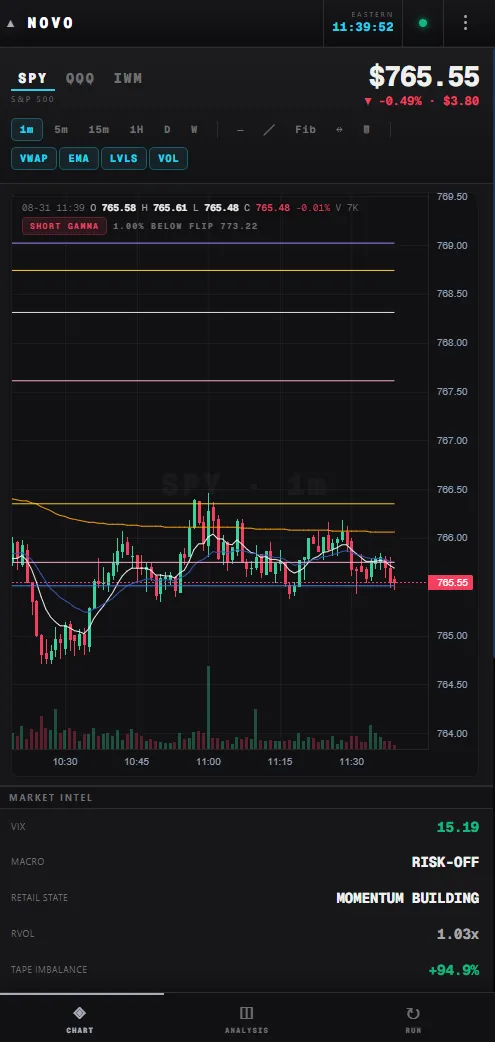
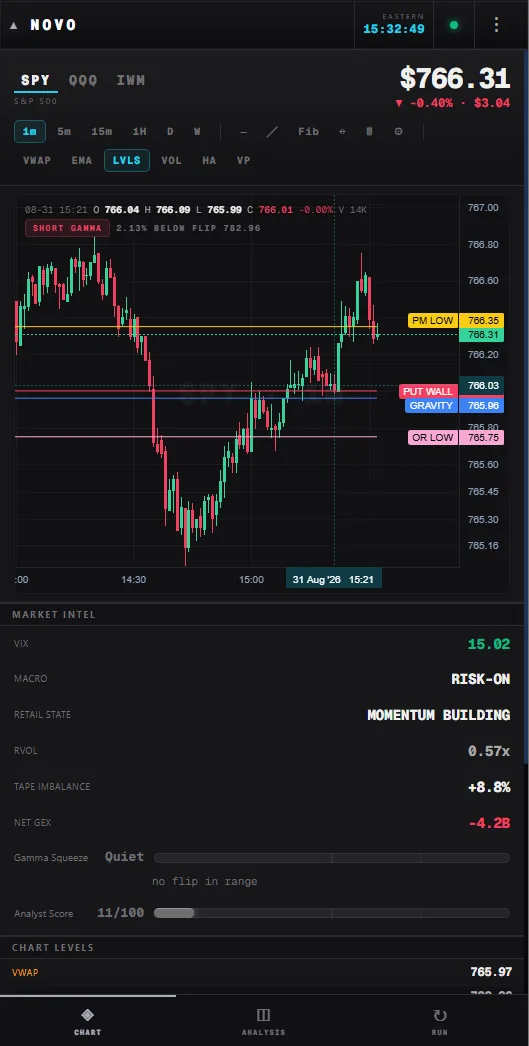
Trader page: fresh desktop terminal + phone shots
Jake's two new captures replace this morning's desk and phone-chart slots
(the analysis-view shots stay):

  desk   the terminal with the current session live -- levels price-labelled
         in the pane (put wall, gravity, OR, pre-market, prior-day), the
         intel strip showing a real short-gamma regime with the squeeze
         gauge building and the Analyst Score, and the flow rail's
         aggressor-tagged print tape running
  phone  the chart tab with the same levels pinned and Market Intel beneath
         -- including net GEX, the squeeze bar and the score, down to the
         Chart / Analysis / Run bottom nav

Cache-busters bumped to v=3, dimensions matched to the captures, alts
rewritten to what each frame actually shows.

diff --git a/public/trader.html b/public/trader.html
@@ -612,9 +612,9 @@ nav { position: relative; }
 </style>
 
     <div class="hero-mashup">
-      <div class="hm-back"><img src="/screenshots/trader-live-desk.webp?v=2" width="1905" height="1047" alt="The Trader terminal &mdash; the live SPY 1-minute chart with every dealer level drawn and price-labelled in the pane: call wall, gravity, opening range, pre-market and after-hours levels, VWAP and the EMAs &mdash; beside the live options-flow rail: put/call volume, unusual strikes, and the sweeps-and-blocks print tape with aggressor-tagged buys and sells" loading="eager" fetchpriority="high" decoding="async"></div>
+      <div class="hm-back"><img src="/screenshots/trader-live-desk.webp?v=3" width="1905" height="1046" alt="The Trader terminal &mdash; the live SPY 1-minute chart with every level price-labelled in the pane: put wall, gravity, opening range, pre-market and prior-day levels &mdash; under the intel strip: macro regime, retail state, relative volume, tape imbalance, net GEX in a live short-gamma regime, the gamma-squeeze gauge and the Analyst Score &mdash; beside the options-flow rail with put/call volume, unusual strikes, and the aggressor-tagged sweeps-and-blocks print tape" loading="eager" fetchpriority="high" decoding="async"></div>
       <div class="hm-fan">
-        <div class="hm-card" style="transform:rotate(-11deg) ;z-index:4;"><img src="/screenshots/trader-live-chart.webp?v=2" width="495" height="1042" alt="Trader on a phone &mdash; the chart tab &mdash; the live 1-minute scalping chart with the dealer levels and short-gamma read drawn on it, and Market Intel beneath: VIX, macro regime, retail state, relative volume and tape imbalance" loading="lazy" decoding="async"></div>
+        <div class="hm-card" style="transform:rotate(-11deg) ;z-index:4;"><img src="/screenshots/trader-live-chart.webp?v=3" width="529" height="1046" alt="Trader on a phone &mdash; the chart tab &mdash; the live 1-minute chart with the put wall, gravity, opening-range and pre-market levels drawn and the short-gamma read pinned to the pane, with Market Intel beneath: VIX, macro regime, retail state, relative volume, tape imbalance, net GEX, the gamma-squeeze bar and the Analyst Score" loading="lazy" decoding="async"></div>
         <div class="hm-card" style="transform:rotate(9deg) translateY(16px);z-index:3;margin-left:-46px;"><img src="/screenshots/trader-live-analysis.webp?v=2" width="500" height="1047" alt="Trader on a phone &mdash; the analysis tab &mdash; the top-of-hour structural audit with its bias, identified levels, observed patterns and written thesis, NoVo's pre-market primer, and 'The Line' level-break playbook" loading="lazy" decoding="async"></div>
       </div>
     </div>
